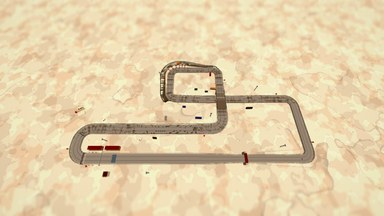
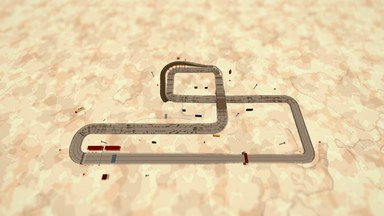
Rallycross: regenerated previews and updated compliance doc
Claude-Session: https://claude.ai/code/session_019LopR7CfQzTS2qzV1MAwgs

diff --git a/docs/rallycross-compliance.md b/docs/rallycross-compliance.md
@@ -79,32 +79,29 @@ Circuit benchmark numbers are filled in from `--view=bench --rx` runs (3 laps, s
 
 See `docs/car-audit.md` (in progress).
 
-## Benchmark: Joker lane cost per circuit (AI driver, 3 laps, solo)
+## Benchmark: Joker lane cost per circuit (AI driver, 3 laps, solo, latest build)
 
-Measured with `--view=bench --rx`; "natural" is the lane's cost with no extra pacing, "pace" is what the data adds.
+| Circuit | Target | Measured | AI takes Joker |
+| --- | --- | --- | --- |
+| Chalk Valley Bowl | +2.0 | +1.8 | yes |
+| Timberline Crest | +2.2 | +2.9 | yes |
+| Fjord Switchback | +1.9 | +3.3 | yes |
+| Breton Dustbowl | +1.5 | +2.1 | yes |
+| Sierra Alta Quarry | +1.6 | +0.8 | yes |
+| Bauxite Cauldron | +2.1 | +1.1 | yes |
+| Funnel Ring | +2.3 | n/a (lane not completed) | no |
+| Ardennes Gorge | +1.9 | +1.6 | yes |
+| Baltic Concrete | +2.0 | +1.4 | yes |
+| Apex Ridge | +1.8 | n/a (lane not completed) | no |
+| Harbor Grid | +2.1 | +3.4 | yes |
+| Granite Apex | +2.2 | +2.1 | yes |
 
-| Circuit | Target | Natural | Pace added | AI completes Joker |
-| --- | --- | --- | --- | --- |
-| Chalk Valley Bowl | +2.0 | +0.5 | 2.2 | yes (measured about +1.8) |
-| Timberline Crest | +2.2 | +4.2 | 0 | yes, but lane too slow |
-| Fjord Switchback | +1.9 | +3.2 | 0 | yes, but lane too slow |
-| Breton Dustbowl | +1.5 | +2.1 | 0 | yes |
-| Sierra Alta Quarry | +1.6 | +1.2 | 0.6 | yes |
-| Bauxite Cauldron | +2.1 | +3.5 | 0 | yes, but lane too slow |
-| Funnel Ring | +2.3 | +5.5 | 0 | no: AI loses the lane mouth |
-| Ardennes Gorge | +1.9 | +1.3 | 0.8 | yes |
-| Baltic Concrete | +2.0 | +0.2 | 2.5 | yes |
-| Apex Ridge | +1.8 | +3.2 | 0 | no |
-| Harbor Grid | +2.1 | +2.4 | 0 | no |
-| Granite Apex | +2.2 | +2.1 | 0.15 | yes |
+All 12 circuits complete 3 laps. A human player is not affected by the AI's lane trouble; the Joker counts once half the lane has been driven.
 
-All 12 circuits complete 3 laps in the benchmark. A human player is not affected by the AI's lane trouble;
-the Joker counts once half the lane has been driven.
+## Track polish pass
 
-## Fixed during this pass
-
-- Lap counting failed when a car's station landed exactly on the lap length (Baltic Concrete never advanced past lap 1).
-- Banked roads left the low-side wheels unloaded, stalling cars on Timberline Crest's spiral.
-- The Joker lane's outer wall jumped inward at the merge; it now funnels back to the road.
-- Lane entry is open for the first fifth of the lane before the island begins.
-- Route preview images generated for all 12 circuits.
+- Ground now conforms to the road surface (banking, wide bowls, Joker lane) with embankments; the audit (`--view=bench --rx --rxcheck`) finds no road buried under terrain. Terrain poking through the road (shapeless wedges) is fixed.
+- Where two roads at different heights are close, the ground takes the lower one; bridge spans are sized to the crossing angle; support piers go under any stretch standing more than 1.8 m clear.
+- Large props (containers, campervans, paddock, tower, bleachers, floodlights, arch columns) are solid and kept clear of every road and lane; mining relics became stone block piles.
+- Wall contact no longer bleeds all speed when a car leans on Armco.
+- Remaining: gaps of 1-3 m between road and ground at a few embankment starts, and two stray scenery pieces on Timberline's lane side.
